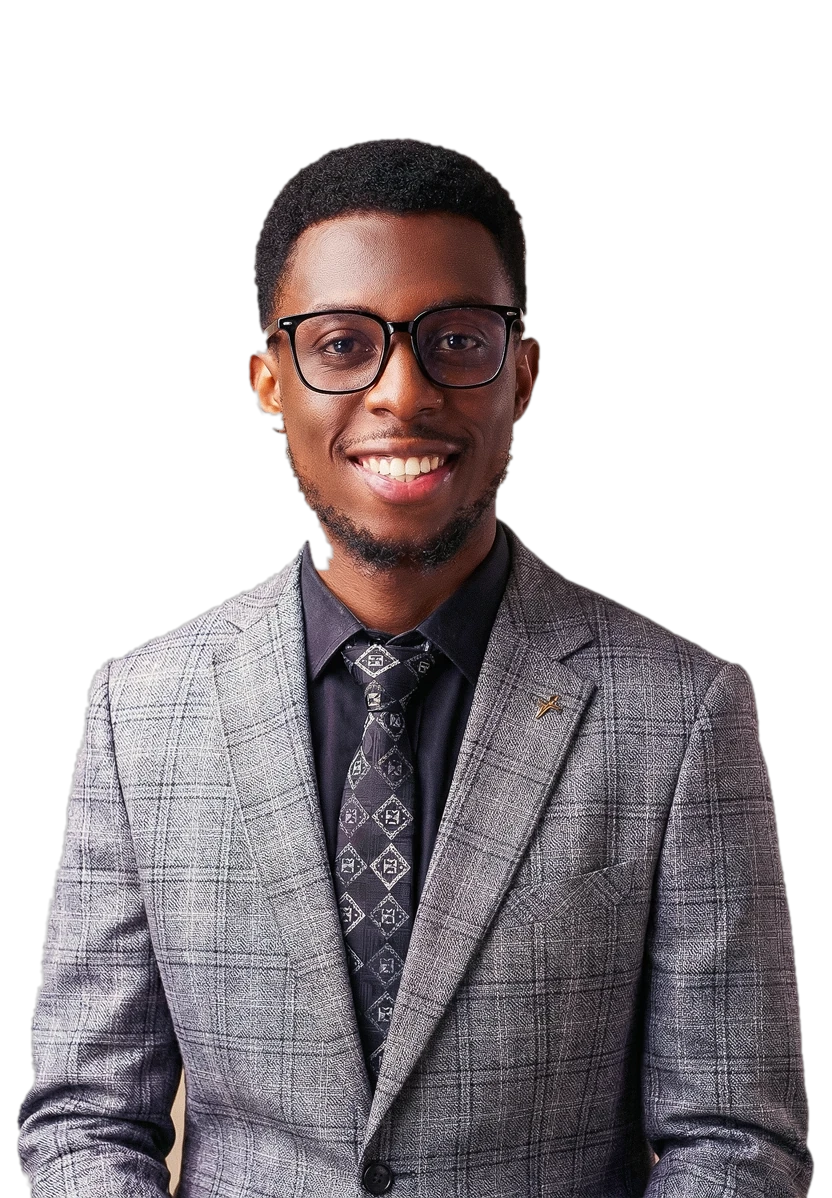
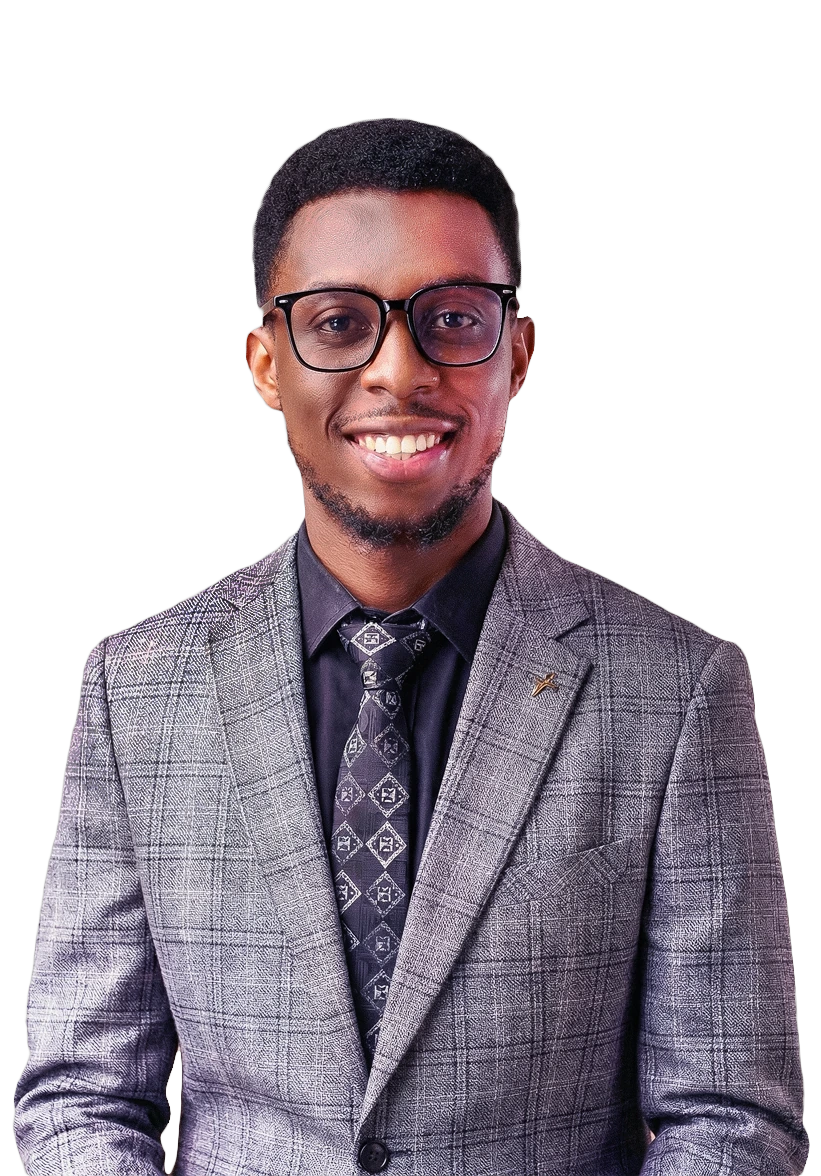
Swap in new portrait, turn the hero arch black with a red crown glow
- portrait.webp recut from the new photo (821x1176) with baked-in headroom
- .portrait-shell now reads as a black arch lit from the top, with a red
  rim and base vignette; dark mode keeps the silhouette with a lift to
  #131312
- tighter crown glow below 640px so the squat mobile arch stays black

diff --git a/app/globals.css b/app/globals.css
@@ -657,36 +657,88 @@
     );
   }
 
+  /* The arch: black, with a red glow spilling down from its crown. */
   .portrait-shell {
     position: relative;
     overflow: hidden;
     border-radius: 999px 999px 24px 24px;
-    background: var(--grad-red-deep);
-    box-shadow: 0 50px 90px -50px rgba(158, 0, 0, 0.7);
+    background: #050505;
+    box-shadow:
+      0 50px 90px -50px rgba(0, 0, 0, 0.85),
+      0 0 70px -18px rgba(238, 3, 3, 0.35);
   }
 
+  /* the glow itself — pooled at the top edge, falling away as it descends */
+  .portrait-shell::before {
+    content: "";
+    position: absolute;
+    inset: 0;
+    z-index: 0;
+    pointer-events: none;
+    background:
+      radial-gradient(70% 52% at 50% -10%, rgba(255, 59, 59, 0.85) 0%, rgba(238, 3, 3, 0.38) 26%, transparent 62%),
+      radial-gradient(120% 78% at 24% -4%, rgba(184, 2, 2, 0.4), transparent 58%);
+  }
+
+  /* finishing pass: a cool vignette so the black reads as a lit surface,
+     plus a thin red rim along the arch edge */
   .portrait-shell::after {
     content: "";
     position: absolute;
     inset: 0;
     pointer-events: none;
-    background:
-      radial-gradient(70% 55% at 26% 6%, rgba(255, 255, 255, 0.3), transparent 62%),
-      radial-gradient(60% 45% at 80% 92%, rgba(0, 0, 0, 0.28), transparent 70%);
-    mix-blend-mode: soft-light;
+    background: radial-gradient(120% 86% at 50% 108%, rgba(0, 0, 0, 0.9), transparent 58%);
+    box-shadow: inset 0 0 0 1px rgba(238, 3, 3, 0.28);
     z-index: 2;
+  }
+
+  [data-theme="dark"] .portrait-shell {
+    /* a shade above the page black, so the arch keeps its shape */
+    background: #131312;
+    box-shadow:
+      0 50px 90px -50px rgba(0, 0, 0, 0.95),
+      0 0 90px -14px rgba(238, 3, 3, 0.5);
+  }
+
+  /* and in dark mode the glow reads from the crown, like a light behind it */
+  [data-theme="dark"] .portrait-shell::before {
+    background:
+      radial-gradient(70% 52% at 50% -10%, rgba(255, 59, 59, 0.9) 0%, rgba(238, 3, 3, 0.34) 26%, transparent 62%),
+      radial-gradient(120% 78% at 24% -4%, rgba(184, 2, 2, 0.45), transparent 58%);
+  }
+
+  [data-theme="dark"] .portrait-shell::after {
+    background: radial-gradient(120% 86% at 50% 108%, rgba(0, 0, 0, 0.92), transparent 58%);
+    box-shadow:
+      inset 0 0 0 1px rgba(238, 3, 3, 0.32),
+      inset 0 1px 0 rgba(255, 255, 255, 0.06);
+  }
+
+  /* on narrow screens the arch is squat, so the glow is pulled tighter to the
+     crown — otherwise the red swallows the black the way the old arch did */
+  @media (max-width: 640px) {
+    .portrait-shell::before {
+      background:
+        radial-gradient(56% 26% at 50% -6%, rgba(255, 59, 59, 0.72) 0%, rgba(238, 3, 3, 0.24) 30%, transparent 68%),
+        radial-gradient(90% 30% at 26% -4%, rgba(184, 2, 2, 0.28), transparent 62%);
+    }
+
+    [data-theme="dark"] .portrait-shell::before {
+      background:
+        radial-gradient(56% 26% at 50% -6%, rgba(255, 59, 59, 0.78) 0%, rgba(238, 3, 3, 0.22) 30%, transparent 68%),
+        radial-gradient(90% 30% at 26% -4%, rgba(184, 2, 2, 0.3), transparent 62%);
+    }
   }
 
   /* --- the founder's photograph, cut out and lit to sit inside the arch ----- */
   .portrait-photo {
     object-fit: contain;
     object-position: center bottom;
+    /* above the glow, below the finishing pass */
     z-index: 1;
     /* the asset carries its own headroom, so it sits inside the arch as drawn */
     transform: none;
-    /* a whisper of warmth so the studio shot belongs to the red panel without
-       touching the face; brightness/contrast stay untouched */
-    filter: drop-shadow(0 18px 28px rgba(80, 0, 0, 0.28));
+    filter: drop-shadow(0 20px 30px rgba(0, 0, 0, 0.55));
   }
 
   .portrait-light {
@@ -694,22 +746,17 @@
     inset: 0;
     z-index: 2;
     pointer-events: none;
-    /* red rim light from the arch behind, and a soft top-left key */
+    /* red light falling from the glow above, and a soft base shade */
     background:
-      radial-gradient(120% 78% at 50% 104%, rgba(158, 0, 0, 0.55), transparent 58%),
-      radial-gradient(58% 40% at 22% 2%, rgba(255, 255, 255, 0.16), transparent 66%);
+      radial-gradient(80% 46% at 50% 0%, rgba(255, 59, 59, 0.5), transparent 64%),
+      radial-gradient(70% 34% at 50% 100%, rgba(0, 0, 0, 0.5), transparent 72%);
     mix-blend-mode: soft-light;
   }
 
   [data-theme="dark"] .portrait-light {
     background:
-      radial-gradient(120% 78% at 50% 104%, rgba(120, 0, 0, 0.7), transparent 60%),
-      radial-gradient(58% 40% at 22% 2%, rgba(255, 255, 255, 0.1), transparent 66%);
-  }
-
-  /* in dark mode the panel closes down around him, so cool the deepest reds */
-  [data-theme="dark"] .portrait-shell {
-    box-shadow: 0 50px 90px -50px rgba(238, 3, 3, 0.45);
+      radial-gradient(80% 46% at 50% 0%, rgba(255, 59, 59, 0.42), transparent 66%),
+      radial-gradient(70% 34% at 50% 100%, rgba(0, 0, 0, 0.65), transparent 72%);
   }
 
   /* ---------------------------------------------------------------------------
